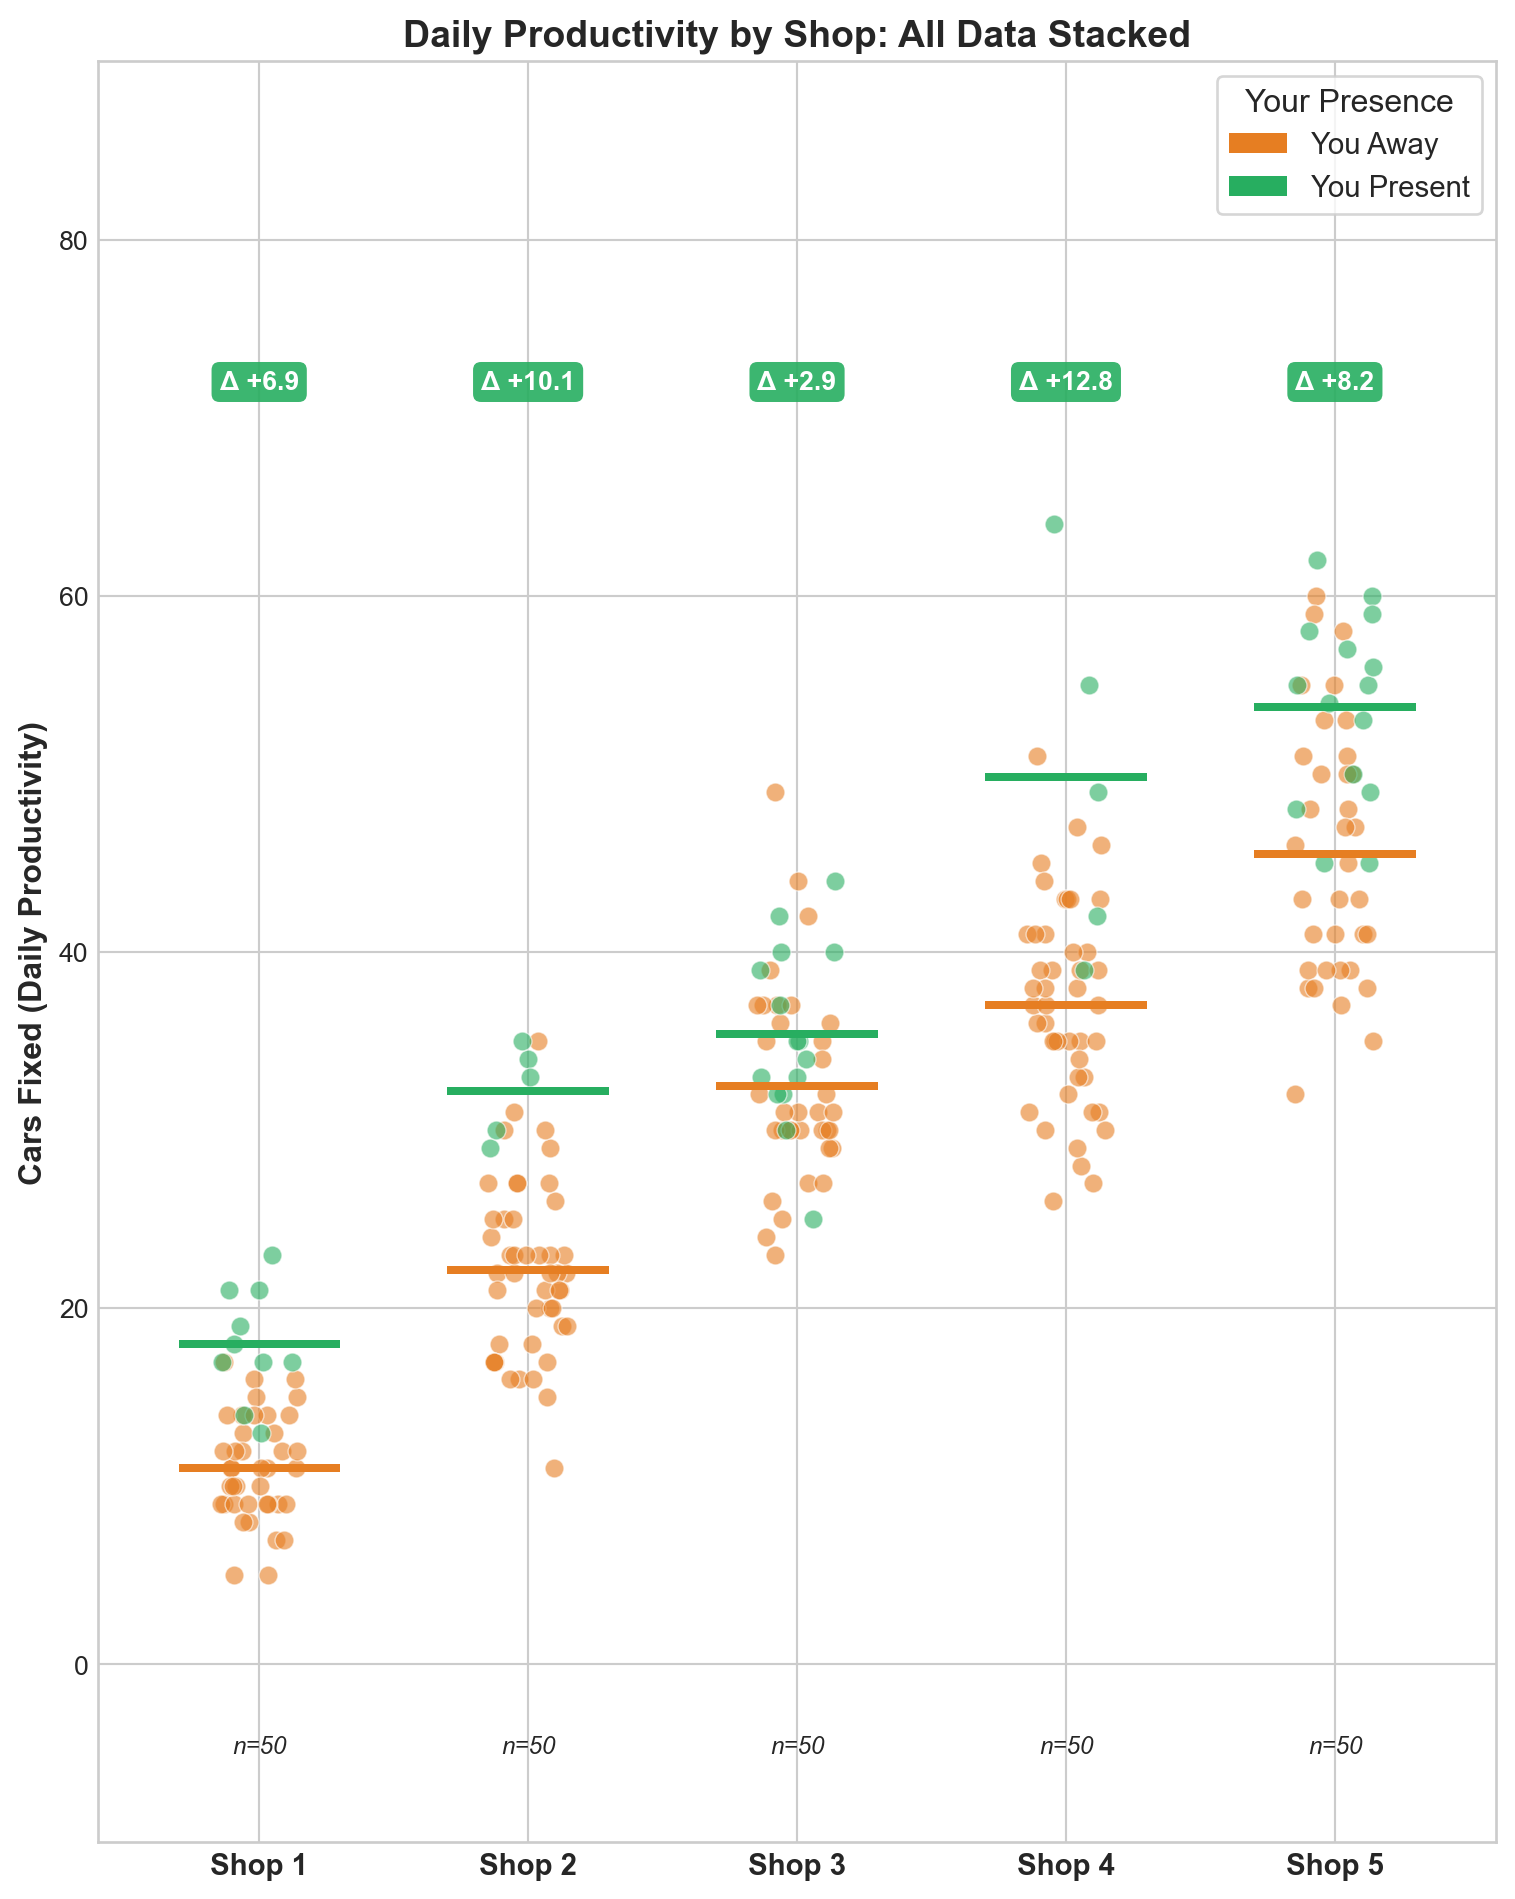
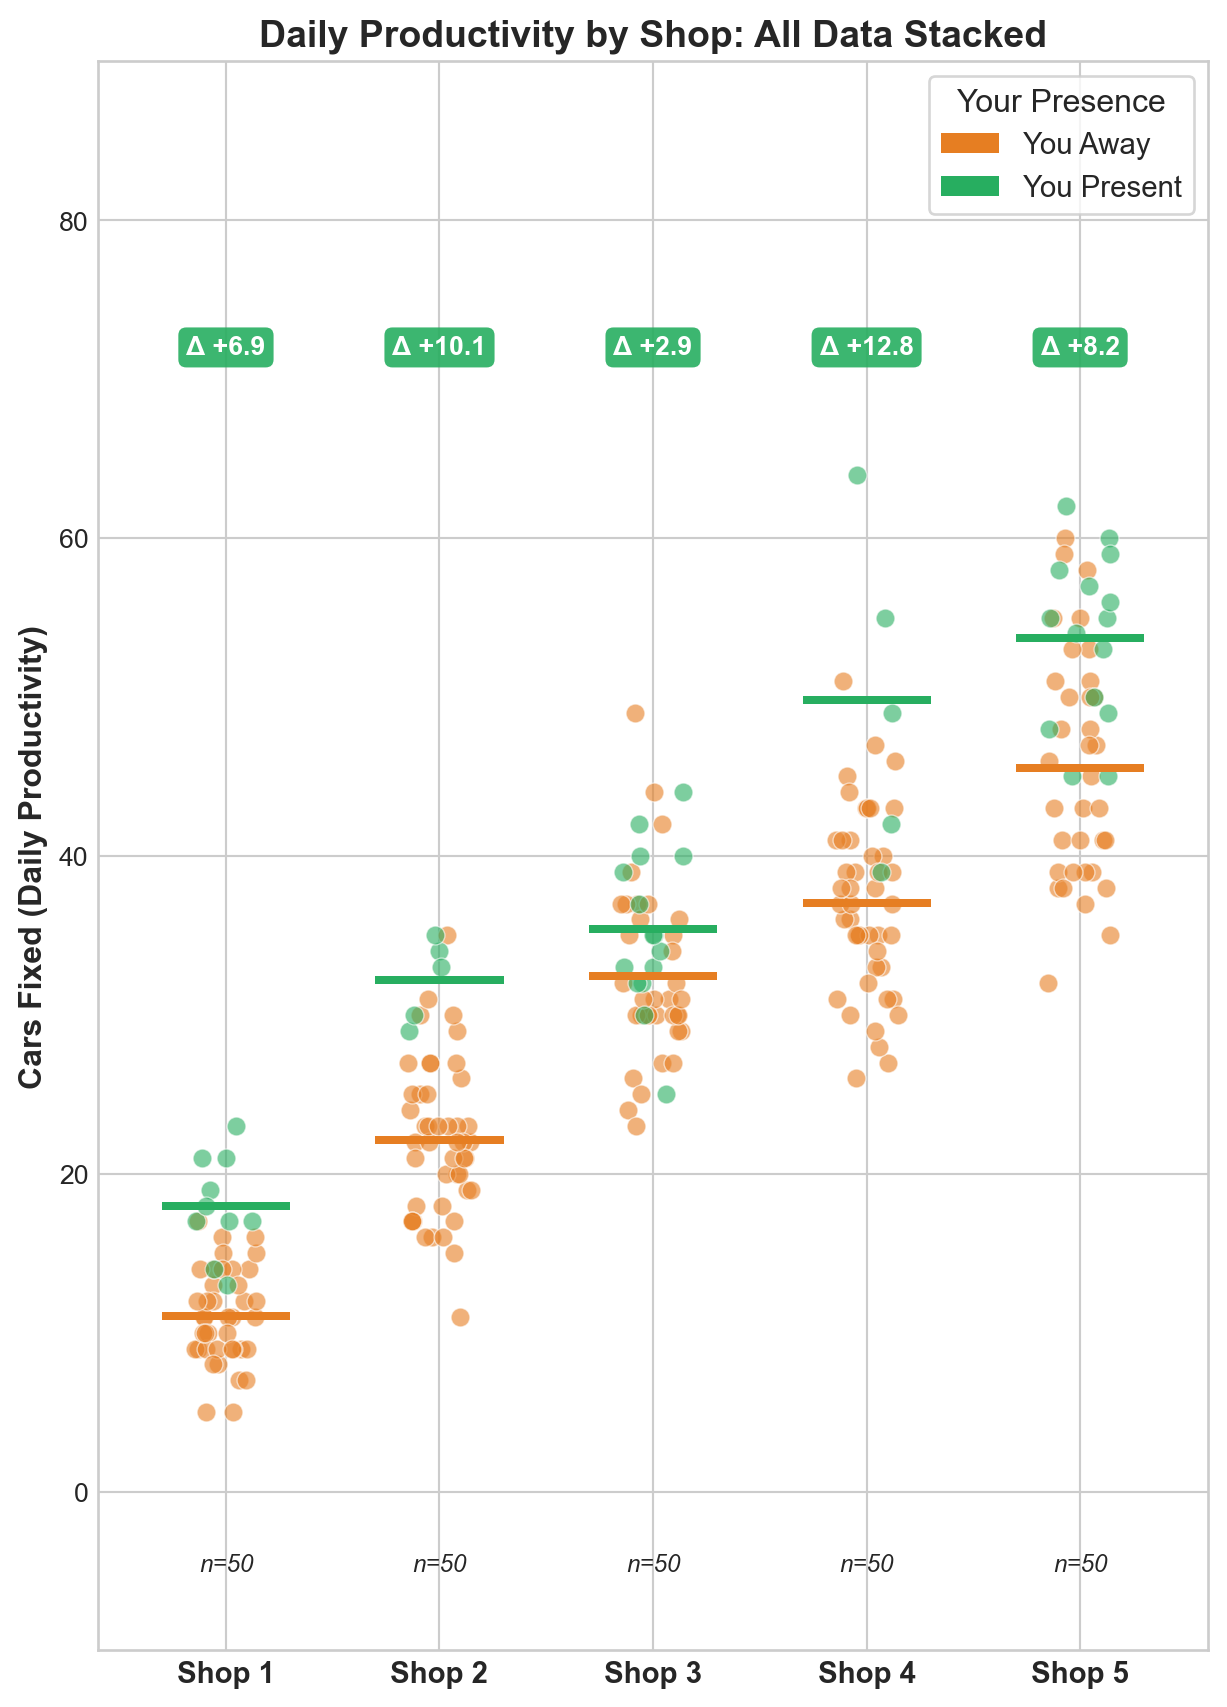
fifth

diff --git a/index.html b/index.html
@@ -105,11 +105,11 @@ ul.task-list li input[type="checkbox"] {
 <section id="what-the-data-shows" class="level2">
 <h2 class="anchored" data-anchor-id="what-the-data-shows">What the Data Shows</h2>
 <p>We analyzed 250 days of productivity data across your 5 shops. Here’s every single day plotted—you can see the pattern clearly:</p>
-<div id="47d3644e" class="cell" data-fig-height="10" data-fig-width="8" data-execution_count="2">
+<div id="b4ea88f3" class="cell" data-fig-height="9" data-fig-width="6.5" data-execution_count="2">
 <div class="cell-output cell-output-display">
 <div class="quarto-figure quarto-figure-center">
 <figure class="figure">
-<p><img src="index_files/figure-html/cell-3-output-1.png" width="758" height="950" class="figure-img"></p>
+<p><img src="index_files/figure-html/cell-3-output-1.png" width="614" height="854" class="figure-img"></p>
 <figcaption>Each dot is one day. Green = you were there. Orange = you were away. Delta shows the difference in average cars fixed.</figcaption>
 </figure>
 </div>
@@ -121,7 +121,7 @@ ul.task-list li input[type="checkbox"] {
 <section id="distribution-comparison-violin-plot" class="level2">
 <h2 class="anchored" data-anchor-id="distribution-comparison-violin-plot">Distribution Comparison: Violin Plot</h2>
 <p>This violin plot reveals the full shape of productivity distributions—not just averages, but how spread out and consistent each shop performs:</p>
-<div id="f2f0a876" class="cell" data-fig-height="6" data-fig-width="8" data-execution_count="3">
+<div id="5db075c2" class="cell" data-fig-height="6" data-fig-width="8" data-execution_count="3">
 <div class="cell-output cell-output-display">
 <div class="quarto-figure quarto-figure-center">
 <figure class="figure">
@@ -137,7 +137,7 @@ ul.task-list li input[type="checkbox"] {
 <section id="split-violin-plot-direct-comparison-by-shop" class="level2">
 <h2 class="anchored" data-anchor-id="split-violin-plot-direct-comparison-by-shop">Split Violin Plot: Direct Comparison by Shop</h2>
 <p>This split violin plot shows the productivity distribution for each shop with boss presence on opposite sides—making it easy to compare the “shape” of performance directly:</p>
-<div id="9150072f" class="cell" data-fig-height="8" data-fig-width="8" data-execution_count="4">
+<div id="70fce69d" class="cell" data-fig-height="8" data-fig-width="8" data-execution_count="4">
 <div class="cell-output cell-output-display">
 <div class="quarto-figure quarto-figure-center">
 <figure class="figure">
@@ -153,7 +153,7 @@ ul.task-list li input[type="checkbox"] {
 <section id="d-view-shop-performance-landscape" class="level2">
 <h2 class="anchored" data-anchor-id="d-view-shop-performance-landscape">3D View: Shop Performance Landscape</h2>
 <p>Here’s an interactive 3D perspective showing all three dimensions at once—Shop ID, your presence status, and cars fixed:</p>
-<div id="1d29aa35" class="cell" data-fig-height="8" data-fig-width="10" data-execution_count="5">
+<div id="cbb33495" class="cell" data-fig-height="8" data-fig-width="10" data-execution_count="5">
 <div class="cell-output cell-output-display">
 <div class="quarto-figure quarto-figure-center">
 <figure class="figure">
@@ -169,7 +169,7 @@ ul.task-list li input[type="checkbox"] {
 <section id="the-boss-boost-effect" class="level2">
 <h2 class="anchored" data-anchor-id="the-boss-boost-effect">The “Boss Boost” Effect</h2>
 <p>Here’s the real question: <strong>How many extra cars get fixed when you’re at each shop?</strong></p>
-<div id="057d36e7" class="cell" data-fig-height="5" data-fig-width="7" data-execution_count="6">
+<div id="175eea29" class="cell" data-fig-height="5" data-fig-width="7" data-execution_count="6">
 <div class="cell-output cell-output-display">
 <div class="quarto-figure quarto-figure-center">
 <figure class="figure">
@@ -226,7 +226,7 @@ ul.task-list li input[type="checkbox"] {
 <section id="how-confident-can-you-be" class="level2">
 <h2 class="anchored" data-anchor-id="how-confident-can-you-be">How Confident Can You Be?</h2>
 <p><strong>The honest truth:</strong> We only have 250 days of data, and you weren’t at every shop equally. Here’s what that means:</p>
-<div id="6c9cb83f" class="cell" data-fig-height="6" data-fig-width="6" data-execution_count="7">
+<div id="d3b6d05f" class="cell" data-fig-height="6" data-fig-width="6" data-execution_count="7">
 <div class="cell-output cell-output-display">
 <div class="quarto-figure quarto-figure-center">
 <figure class="figure">
@@ -253,7 +253,7 @@ ul.task-list li input[type="checkbox"] {
 <section id="the-money-question" class="level2">
 <h2 class="anchored" data-anchor-id="the-money-question">The Money Question 💰</h2>
 <p>Let’s say each car fixed earns you <strong>$200 in profit</strong>. Here’s what different scheduling strategies could mean for your wallet:</p>
-<div id="ea3ca16f" class="cell" data-fig-height="7" data-fig-width="7" data-execution_count="8">
+<div id="e6b21803" class="cell" data-fig-height="7" data-fig-width="7" data-execution_count="8">
 <div class="cell-output cell-output-display">
 <div class="quarto-figure quarto-figure-center">
 <figure class="figure">
@@ -266,7 +266,7 @@ ul.task-list li input[type="checkbox"] {
 <section id="long-term-profit-projection" class="level3">
 <h3 class="anchored" data-anchor-id="long-term-profit-projection">Long-Term Profit Projection 📈</h3>
 <p>What do these strategies look like over a full year? Here’s how your profits compound:</p>
-<div id="483fc5e0" class="cell" data-fig-height="5" data-fig-width="7" data-execution_count="9">
+<div id="60b54fb5" class="cell" data-fig-height="5" data-fig-width="7" data-execution_count="9">
 <div class="cell-output cell-output-display">
 <div class="quarto-figure quarto-figure-center">
 <figure class="figure">
@@ -390,7 +390,7 @@ ul.task-list li input[type="checkbox"] {
 </section>
 <section id="one-final-chart-boss-presence-delta-by-shop" class="level3">
 <h3 class="anchored" data-anchor-id="one-final-chart-boss-presence-delta-by-shop">One Final Chart: Boss Presence Delta by Shop</h3>
-<div id="1f69f377" class="cell" data-fig-height="16" data-fig-width="6" data-execution_count="10">
+<div id="0a2c1071" class="cell" data-fig-height="16" data-fig-width="6" data-execution_count="10">
 <div class="cell-output cell-output-display">
 <div class="quarto-figure quarto-figure-center">
 <figure class="figure">
